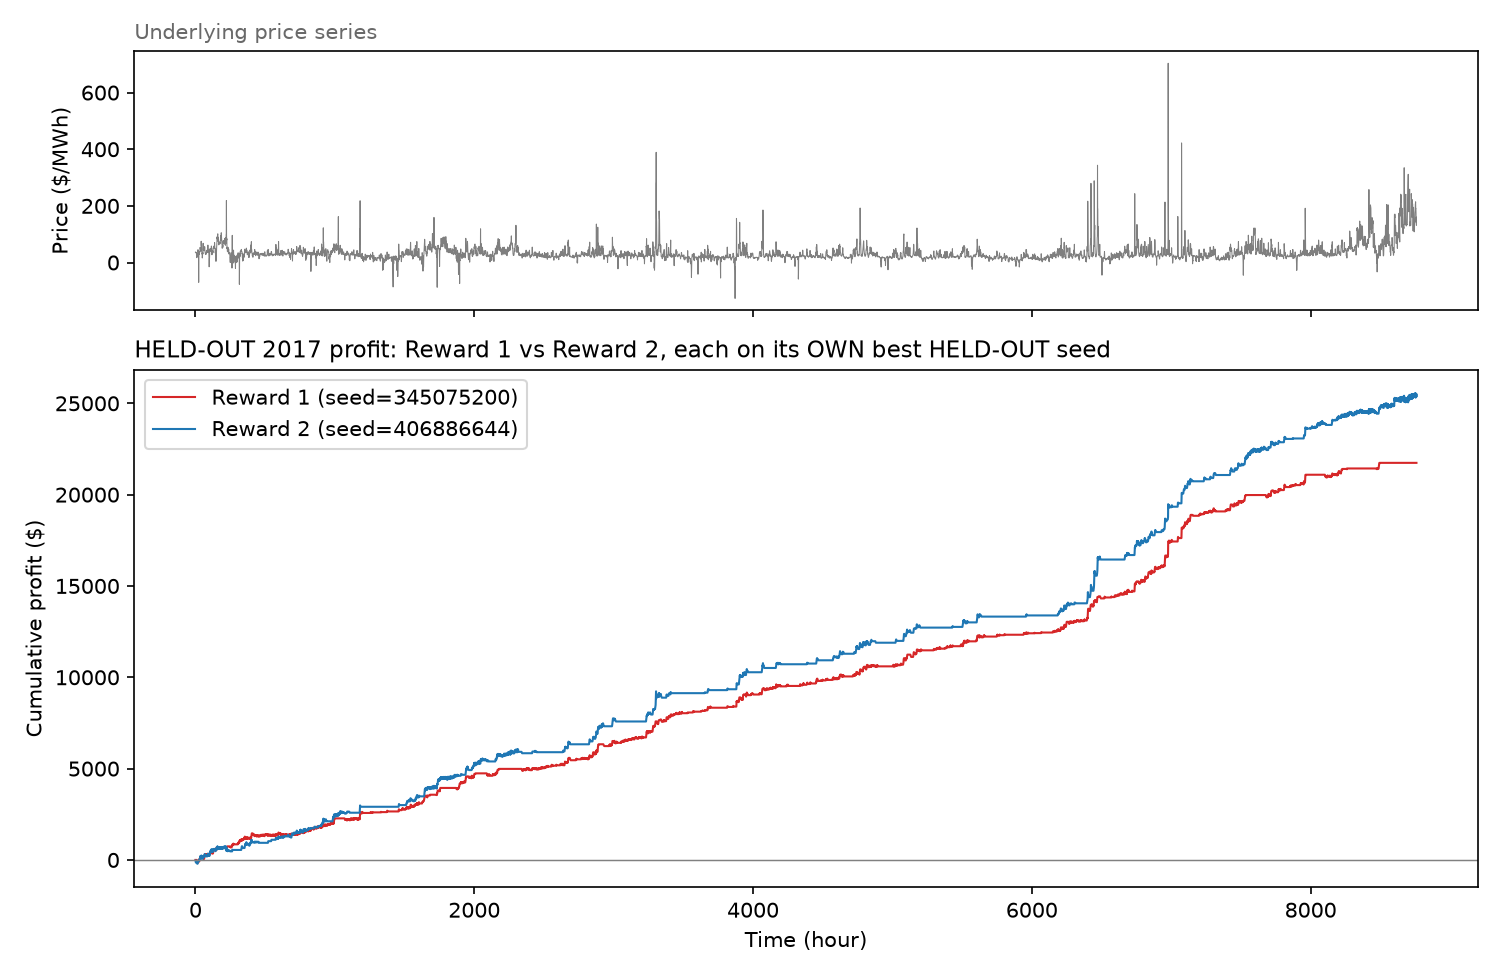
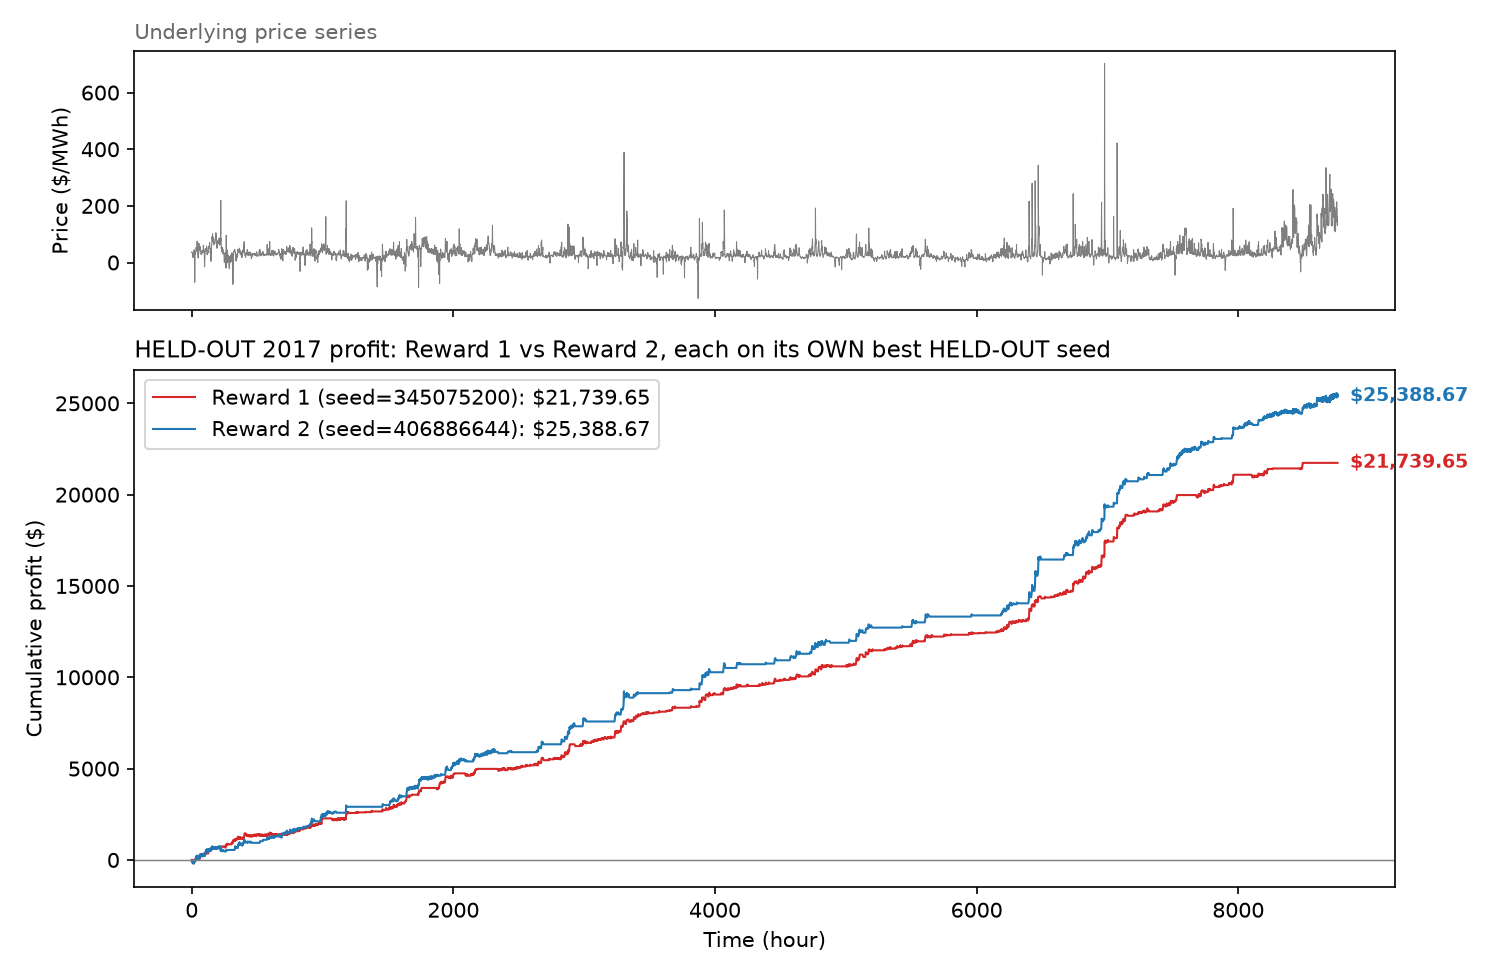
Annotate final cumulative profit directly on the plots
Every cumulative-profit plot (Experiments 1, 2, 3) now labels each curve's
final total profit both in the legend and as a text annotation at the end
of the curve, so the headline number is readable straight off the plot
instead of needing to cross-reference params.txt.

diff --git a/scripts/data_plots/_plot_helpers.py b/scripts/data_plots/_plot_helpers.py
@@ -13,7 +13,10 @@ import numpy as np
 
 
 def make_price_profit_figure(prices, curves, colors, profit_title, price_label="Price ($/MWh)"):
-    """curves: dict of series label -> (color_key, array), array same length as prices."""
+    """curves: dict of series label -> (color_key, array), array same length as prices.
+    Final cumulative profit is appended to each legend entry AND annotated
+    directly at the end of its curve, so the headline number is readable
+    from the plot itself, not just cross-referenced against a caption."""
     fig, (price_ax, profit_ax) = plt.subplots(
         2, 1, figsize=(10, 6.5), sharex=True, height_ratios=[1, 2])
 
@@ -23,12 +26,19 @@ def make_price_profit_figure(prices, curves, colors, profit_title, price_label="
     price_ax.set_title("Underlying price series", fontsize=10, color="dimgray", loc="left")
 
     for label, (color_key, curve) in curves.items():
-        profit_ax.plot(np.arange(len(curve)), curve, label=label, color=colors[color_key], linewidth=1)
+        color = colors[color_key]
+        final_value = curve[-1]
+        profit_ax.plot(np.arange(len(curve)), curve,
+                       label=f"{label}: ${final_value:,.2f}", color=color, linewidth=1)
+        profit_ax.annotate(f"${final_value:,.2f}", (len(curve) - 1, final_value), color=color,
+                           fontsize=9, fontweight="bold", xytext=(6, 0),
+                           textcoords="offset points", va="center")
     profit_ax.axhline(0, color="gray", linewidth=0.7)
     profit_ax.set_xlabel("Time (hour)")
     profit_ax.set_ylabel("Cumulative profit ($)")
     profit_ax.set_title(profit_title, fontsize=11, loc="left")
     profit_ax.legend()
+    profit_ax.margins(x=0.09)  # room for the end-of-curve annotations
 
     fig.tight_layout()
     return fig

diff --git a/scripts/data_plots/plot_100seed_cumulative_profit.py b/scripts/data_plots/plot_100seed_cumulative_profit.py
@@ -70,7 +70,9 @@ def main():
         color = colors[reward_kind]
         ax.fill_between(x, lower, upper, color=color, alpha=0.15, linewidth=0)
         ax.plot(x, mean, color=color, linewidth=1.5,
-                label=f"{reward_kind.replace('_', ' ').title()} (mean, n={n_trials})")
+                label=f"{reward_kind.replace('_', ' ').title()} (mean, n={n_trials}): ${mean[-1]:,.2f}")
+        ax.annotate(f"${mean[-1]:,.2f}", (T - 1, mean[-1]), color=color, fontsize=9,
+                    fontweight="bold", xytext=(6, 0), textcoords="offset points", va="center")
 
         band_stats[reward_kind] = {
             "n_trials": n_trials, "final_mean": float(mean[-1]),
@@ -84,6 +86,7 @@ def main():
     ax.set_title(f"Reward 1 vs Reward 2, cumulative profit over time -- "
                  f"mean +/- [{args.lower_pct:g}th, {args.upper_pct:g}th] percentile band across trials")
     ax.legend(loc="upper left")
+    ax.margins(x=0.09)  # room for the end-of-curve annotations
     fig.tight_layout()
     out_path = run_dir / "training_cumulative_profit_over_time_plot.png"
     fig.savefig(out_path, dpi=150)
